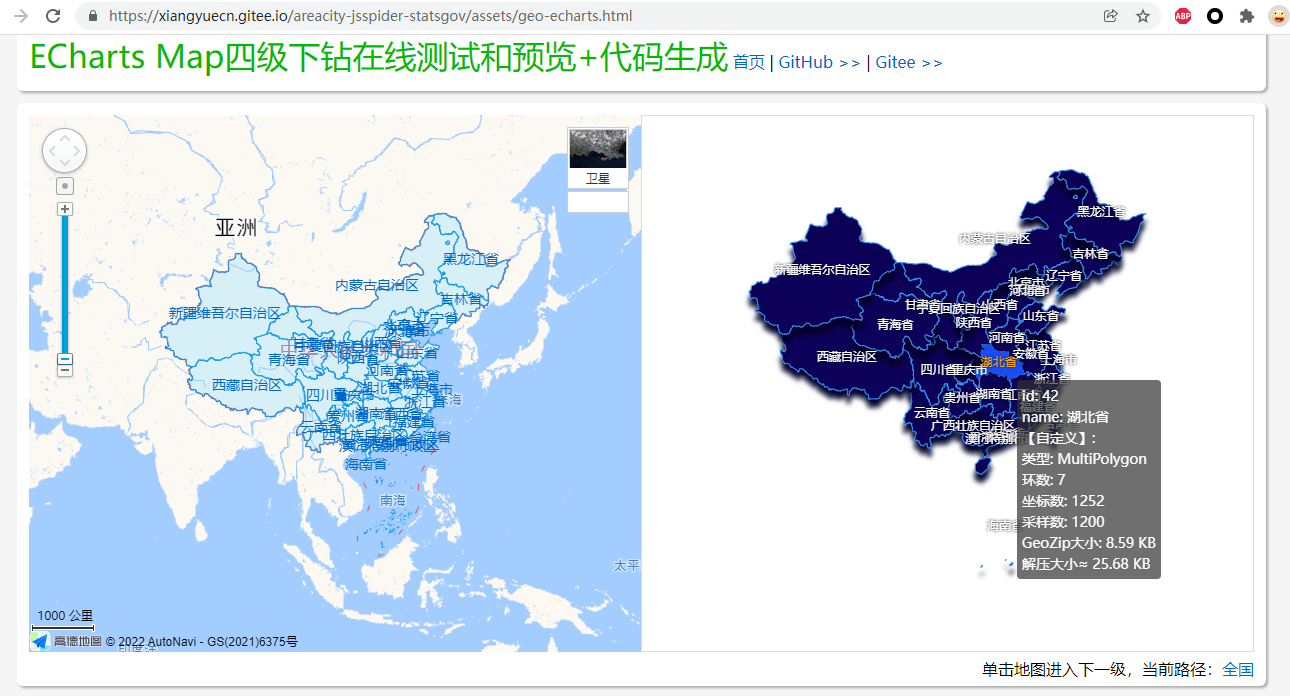
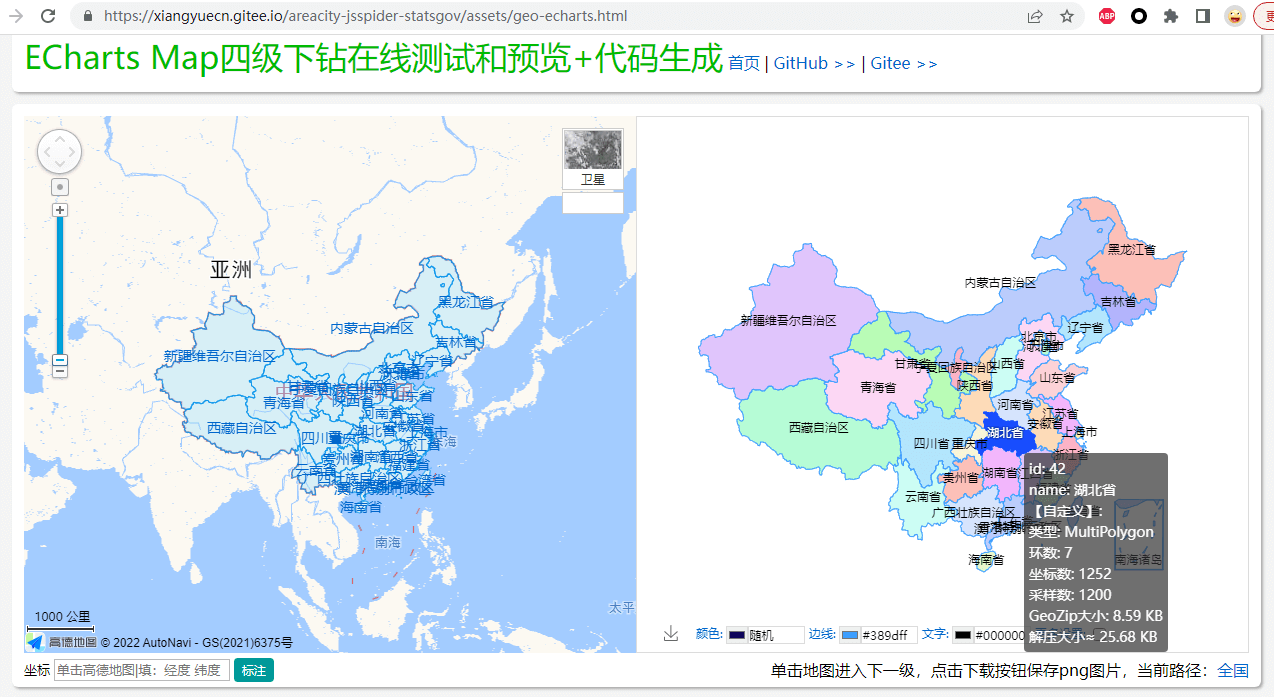
增加AreaCity-Query-Geometry查询支持

diff --git a/assets/geo-echarts-aqg-tools.js b/assets/geo-echarts-aqg-tools.js
@@ -1,0 +1,215 @@
+//调用AreaCity-Query-Geometry坐标边界查询工具的HTTP API接口来绘制图形
+$(function(){
+$(".aqgToolsBox").html(`
+<div>
+	<span style="margin-right:20px">工具地址: <input style="width:160px"
+		class="aqgToolsUrl" value="http://127.0.0.1:9527/"></span>
+	<span style="margin-right:20px">查询操作: <select class="aqgToolsActions" style="padding: 4px 0;"></select></span>
+	<span style="margin-right:20px">查询参数: <input class="aqgToolsArgs" style="width:200px"></span>
+	<span style="margin-right:10px"><span class="Btn" onclick="aqgToolsQueryClick()">执行查询</span></span>
+	
+	<input class="aqgToolsAppend" type="checkbox">保留已绘制的
+</div>
+
+<div class="aqgToolsDesc"></div>
+<div class="aqgToolsLogs"></div>
+
+<div style="padding-top:10px;font-size:14px;color:#888">
+	操作步骤：
+	1、到<a href="https://github.com/xiangyuecn/AreaCity-Query-Geometry" target="_blank">AreaCity-Query-Geometry</a>开源库（<a href="https://gitee.com/xiangyuecn/AreaCity-Query-Geometry" target="_blank">Gitee镜像库</a>）下载工具源码；
+	2、双击源码内的“编译和运行Test.java直接测试.bat”运行工具（电脑上需先装好JDK）；
+	3、工具内根据菜单提示进行初始化（需先用下面“数据下载”中的转换工具将ok_geo.csv转成geojson格式）；
+	4、工具内启动HTTP API服务。
+</div>
+`);
+
+var log=function(msg,color){
+	$(".aqgToolsLogs").prepend('<div style="padding-left:25px;border-top: 1px solid #eee;color:'+(!color?"":color==1?"red":color==2?"#0b1":color)+'">'+msg+'</div>');
+};
+
+var extPathDesc='请在查询参数中填写：`[deep:]ext_path`；ext_path部分：会查询出和ext_path完全相同值的边界（如: "湖北省 武汉市"），首尾支持*通配符（如: *武汉*），或填*匹配所有；[deep:]部分可选，来限制只返回特定层级的数据，deep取值：0省1市2区县3乡镇，比如: 2:湖北* 查询湖北所有区级数据';
+var actions=[
+	{
+		name:"【边界】查询城市或下级边界"
+		,desc:extPathDesc
+		,exec:function(url,args){extPathQuery(url+"readWKT",args)}
+	}
+	,{
+		name:"【坐标】查询坐标点所在的城市边界"
+		,desc:'请在查询参数中填写坐标，格式：`lng lat`（允许有逗号）；比如：114.044346 22.691963，为广东省 深圳市 龙华区；请注意：坐标系必须和边界数据的坐标系一致'
+		,exec:function(url,args){pointQuery(url+"queryPoint",args)}
+	}
+	,{
+		name:"【Debug】读取边界网格划分图形"
+		,desc:extPathDesc
+		,exec:function(url,args){extPathQuery(url+"debugReadGeometryGridSplitsWKT",args)}
+	}
+];
+
+
+var html=['<option>======请选择需要的查询操作======</option>'];
+for(var i=0;i<actions.length;i++){
+	html.push('<option value="'+(i+1)+'">'+actions[i].name+'</option>');
+}
+var actionsEl=$(".aqgToolsActions")
+	.html(html.join(" "))
+	.bind("change",function(){
+		$(".aqgToolsDesc").html("");
+		var action=actions[+this.value-1];
+		if(action){
+			$(".aqgToolsDesc").html('<span style="color:#fa0">'+action.name+'：</span>'+action.desc);
+		}
+	});
+
+window.aqgToolsQueryClick=function(){
+	var url=$(".aqgToolsUrl").val();
+	var action=actions[+$(".aqgToolsActions").val()-1];
+	var args=$(".aqgToolsArgs").val();
+	var append=$(".aqgToolsAppend")[0].checked;
+	
+	var err;
+	if(!err && !url) err="请填写工具地址";
+	if(!err && !action) err="请选择查询操作";
+	if(!err && !args) err="请选填写查询参数";
+	if(err){
+		log(err,1);
+		return;
+	}
+	
+	if(!append){
+		$(".aqgToolsLogs").html("");
+		clearFeatures();
+	};
+	log("正在执行："+action.name+"... "+JSON.stringify({args:args,append:append,url:url}));
+	
+	action.exec(url,args);
+};
+
+
+var pointQuery=function(url,args){
+	var arr=args.split(/[,\s]+/);
+	var lng=NaN,lat=NaN;
+	if(arr.length==2){
+		lng=+arr[0];lat=+arr[1];
+	}
+	if(isNaN(lng) || isNaN(lat)){
+		log("坐标参数格式不正确",1);
+		return;
+	}
+	url+="?lng="+lng+"&lat="+lat+"&returnWKTKey=polygon";
+	var t1=Date.now();
+	geoEChartsLib.Post(url,{},function(data){
+		mapPointAdd(new AMap.Marker({ position: [lng,lat] }));
+		addFeatures(Date.now()-t1,data);
+	},function(err){
+		log(err,1);
+	});
+};
+var extPathQuery=function(url,args){
+	var arr=/^(?:(\d)[:：\s]+)?(.*)$/.exec(args);
+	if(!arr){
+		log("参数格式不正确",1);
+		return;
+	}
+	var deep=arr[1]||"",extPath=arr[2]||"";
+	
+	url+="?deep="+deep+"&extPath="+extPath+"&returnWKTKey=polygon";
+	var t1=Date.now();
+	geoEChartsLib.Post(url,{},function(data){
+		addFeatures(Date.now()-t1,data);
+	},function(err){
+		log(err,1);
+	});
+};
+
+
+
+var Features=[],QueryID=0;
+var clearFeatures=function(){
+	mapPointReview(true);
+	Features=[];
+};
+var addFeatures=function(loadMs,data){
+	var arr=data.list;
+	if(!arr.length){
+		log("未查询到匹配的边界！",1);
+		return;
+	}
+	arr.sort(function(a,b){return b.polygon.length-a.polygon.length});//大的放前面，免得覆盖住小的
+	
+	QueryID++;
+	var polygonCount=0,errCount=0;
+	for(var i=0;i<arr.length;i++){
+		var raw=arr[i];
+		var prop={
+			isTemp:true
+			,id:(QueryID*-1e8)+Features.length
+			,raw:raw
+		};
+		var feature=geoEChartsLib.WKT2Feature(prop,raw.polygon);
+		if(!feature.geometry.coordinates.length){
+			errCount++;
+			log("第"+(i+1)+"个WKT解析后没有坐标数据: "+raw.ext_path,1);
+			continue;
+		}
+		
+		polygonCount++;
+		Features.push(feature);
+	}
+	
+	var t1=Date.now();
+	drawMap();
+	
+	var msg="已处理完所有查询数据，查询耗时："+loadMs+"ms，绘制耗时："+(Date.now()-t1)+"ms"
+		+"，新增"+polygonCount+"个边界，共"+Features.length+"个边界"
+		+(errCount?"，有"+errCount+"个数据处理出错":"")
+		+"。";
+	log(msg,errCount?1:2);
+	Toast(msg,errCount?1:2);
+};
+
+
+var drawMap=function(){
+	//绘图，照抄GeoECharts.load
+	var mapDatas=[],existsName={};
+	var geojson={type: "FeatureCollection",features:[]};
+	var arr=Features;
+	for(var i=0;i<arr.length;i++){
+		var obj=arr[i],prop=obj.properties;
+		var id=prop.id;
+		var name=prop.raw.name||"[无name]";
+		var en=existsName[name]=(existsName[name]||0)+1;
+		if(en>1){
+			name=name+" ["+en+"]";
+		};
+		
+		var o={
+			id:id
+			,name:name
+			,isTemp:true
+		};
+		prop.name=name;
+		
+		mapDatas.push(o);
+		geojson.features.push(obj);
+	};
+	
+	geoECharts.current=levels[0];//路径定位到全国
+	var end=function(){
+		console.log("aqgToolsQuery draw", mapDatas, geojson);
+	
+		echarts.registerMap('City'+"fromAQG", geojson);
+		geoECharts.draw("fromAQG", mapDatas);
+	}
+	var hasProcess=false;
+	geoECharts.set.onLoadEnd("",null,mapDatas,geojson,function(call){
+		hasProcess=true;
+		call(end);
+	});
+	if(hasProcess){
+		return;
+	};
+	end();
+};
+
+});

diff --git a/assets/geo-echarts.html b/assets/geo-echarts.html
@@ -184,12 +184,26 @@ body::-webkit-scrollbar-thumb{
 		</div>
 		</div>
 		
-		<div style="padding-top:15px;">
+		<div style="padding-top:10px;">
 			因为api接口返回的边界数据已经过了重新采样抽稀处理+GeoZip压缩（大幅节省流量，算法源码在页面下方）；抽稀后最高的从5万个坐标点变成1200个坐标点，两个边界之间放大后会明显感受到不够精细（因算法简单，未考虑相邻区域的拓扑结构），自己使用时可以调高采样数或者直接返回原始数据，就没有这个问题了。
 		</div>
 		
-		<div class2="Hide2" style="padding-top:15px;">
-			<div class="dropChoiceBox"></div>
+		<div class2="Hide2" style="padding-top:20px;">
+			<div>
+				<span class="mainTitle">自定义数据源 - 文本文件</span>
+				<span style="color:#999;font-size:14px;margin-left:10px">json、wkt</span>
+			</div>
+			
+			<div class="dropChoiceBox" style="padding-top:5px"></div>
+		</div>
+		
+		<div class2="Hide2" style="padding-top:20px;">
+			<div>
+				<span class="mainTitle">自定义数据源 - AreaCity-Query-Geometry</span>
+				<span style="color:#999;font-size:14px;margin-left:10px">一个高性能的坐标数据、边界数据查询工具</span>
+			</div>
+			
+			<div class="aqgToolsBox" style="padding-top:5px"></div>
 		</div>
 	</div>
 	
@@ -410,7 +424,7 @@ var geoECharts=geoEChartsLib.Create({
 			html.push('<a onclick="goLevel('+i+')">'+o.name+'</a>');
 		};
 		if(isChoiceFile){
-			html.push('选择的文件');
+			html.push('自定义数据源');
 		};
 		var tips="单击地图进入下一级"+(IsWidget?"":"，点击下载按钮保存png图片")+"，当前路径："+html.join(" > ");
 		
@@ -544,6 +558,7 @@ updateSet();
 
 <script src="https://xiangyuecn.gitee.io/recorder/assets/ztest-codemirror.min.5.48.4.js"></script>
 <script src="geo-echarts-drop-cscode.js"></script>
+<script src="geo-echarts-aqg-tools.js"></script>
 
 
 <div style="width:0;height:0;overflow:hidden;">

diff --git a/assets/geo-level4.html b/assets/geo-level4.html
@@ -467,7 +467,7 @@ img{
 				</div>
 				<div style="margin-top:20px">
 					比如：购买了“湖北武汉”、“河南郑州”两个市的乡镇坐标边界数据，会赠送8小时的激活密钥，请在8小时有效期内导出转换数据；导出的数据中只会包含“武汉”、“郑州”两个市的乡镇坐标边界数据。
-					<span style="font-size:13px;color:red">北京、上海、天津、重庆只能按省购买，不支持按市购买（北京、上海、天津打7折）。</span>
+					<span style="font-size:13px;color:red">北京、上海、天津、重庆只能按省购买，不支持按市购买（北京、上海、天津：<span style="color:#04f;">¥69</span>）。</span>
 				</div>
 				<div style="margin-top:6px;font-size:13px;color:#0b1;">
 					单独购买后，如需购买此城市同版本的上级省份、或全部数据，只需补差价。
@@ -527,7 +527,7 @@ img{
 			
 			<div class="h3">可以免费获得数据吗？</div>
 			<div class="desc">
-				如果你是将本数据用于公益等领域，可以联系作者为你们组织提供免费许可。
+				如果你是将本数据用于公益或服务于公众等领域，且不以盈利（含间接盈利、项目开发获利）为目的，可以联系作者，并同时提供部分能够佐证使用目的材料，核实确认后即可为你们组织提供免费许可（限不超过5个省的数据）。
 			</div>
 		</div>
 		

diff --git a/assets/geo-echarts-drop-cscode.js b/assets/geo-echarts-drop-cscode.js
@@ -338,13 +338,13 @@ window.mapPointShowClick=function(){
 		+'<div style="color:#ba4e4e"'
 			+'>'+tag+'输入WGS-84坐标转成GCJ-02：'+ss(gps)+'</div>'
 		+'<div style="color:#d89c09"'
-			+'>'+tag+'输入BG-09转成GCJ-02显示 ：'+ss(bd09)+'</div>'
+			+'>'+tag+'输入BD-09转成GCJ-02显示 ：'+ss(bd09)+'</div>'
 	+'</div>');
 	
 	var arr=[
 		{p:gcj02,t:"GCJ-02",c:"#666"}
 		,{p:gps,t:"WGS-84",c:"#ba4e4e"}
-		,{p:bd09,t:"BG-09",c:"#d89c09"}
+		,{p:bd09,t:"BD-09",c:"#d89c09"}
 	];
 	for(var i=0;i<arr.length;i++){
 		var o=arr[i];
@@ -359,6 +359,9 @@ window.mapPointShowClick=function(){
 	mapPointReview();
 };
 var markerList=[],tagIdx=0;
+window.mapPointAdd=function(marker){
+	markerList.push(marker);
+};
 window.mapPointReview=function(clear){
 	for(var i=0;i<markerList.length;i++){
 		markerList[i].setMap(clear?null:map);
